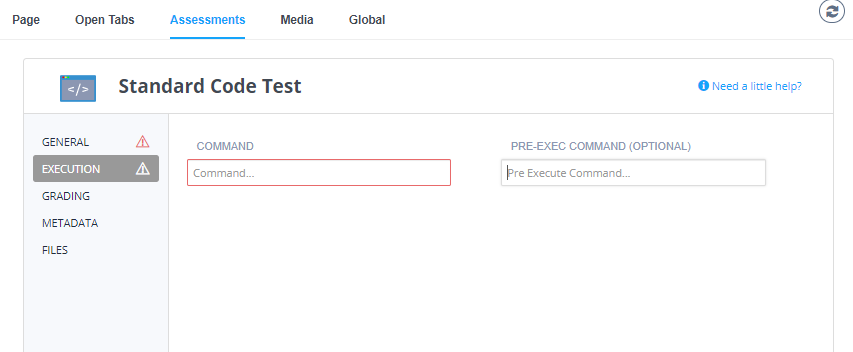
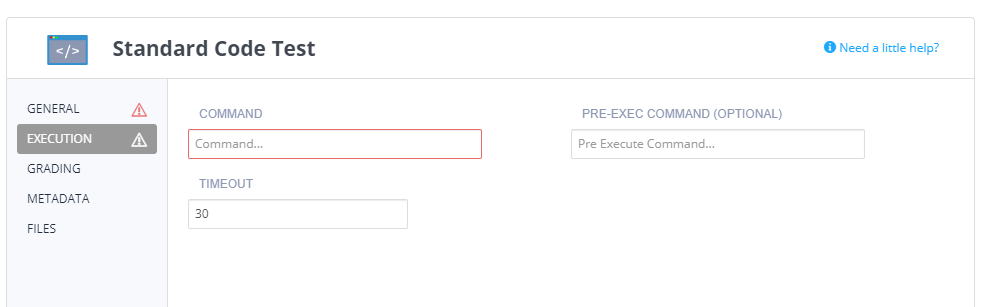
changelog #12135 (#79)

diff --git a/source/instructors/authoring/assessments/standard-code-test.rst b/source/instructors/authoring/assessments/standard-code-test.rst
@@ -40,6 +40,8 @@ Follow these steps to set up a standard code test:
    .. Note:: If you store the assessment scripts in the **.guides/secure** folder, they run securely and students cannot see the script or the files in the folder. 
        The files can be dragged and dropped from the File Tree into the field to automatically populate the necessary execution and run code.
 
+  - **Timeout** - Where you can amend the timeout setting for the code to execute. Arrows will allow you to set max 300 (sec), if you require longer, you can manually enter the timeout period.
+  
   - **Command** - Enter the command that executes the student code. This is usually a run command.  
 
   - **Pre-exec command** - Enter the command to execute before each test is run. This is usually a compile command.

diff --git a/source/instructors/getstarted/support/changelog.rst b/source/instructors/getstarted/support/changelog.rst
@@ -15,6 +15,7 @@ We do not report small bug fixes or issues that affect individual users, who we 
 
 **July 2021**
 
+- `[I] [29th]`: Add timeout field for :ref:`Advanced Code Test <advanced-code-test>` and :ref:`Standard Code Test <standard-code-test>`
 - `[I] [ 9th]`: Add confirmation dialog for :ref:`scratch <scratch>` assignments when students mark assignments as completed to ensure all work is saved correctly
 - `[I] [ 8th]`: Add ability to export currently published :ref:`assignments <export-source>` in a course
 - `[I] [ 6th]`: Add ability to control when to show answer/rationale to students in :ref:`assessments <add-assessment>`

diff --git a/source/instructors/authoring/assessments/advanced-code-test.rst b/source/instructors/authoring/assessments/advanced-code-test.rst
@@ -33,6 +33,8 @@ Complete each section to set up your advanced code test.
      - **Custom**: for a `custom`_ auto-grading script in any language
      
    - **Language Assessment Subtype** - Click the drop-down and choose a subtype for the selected language type, if applicable.
+   
+   - **Timeout** - Where you can amend the timeout setting for the code to execute. Arrows will allow you to set max 300 (sec), if you require longer, you can manually enter the timeout period.
        
 3. Click **Grading** in the left navigation pane and complete the following fields:
 
